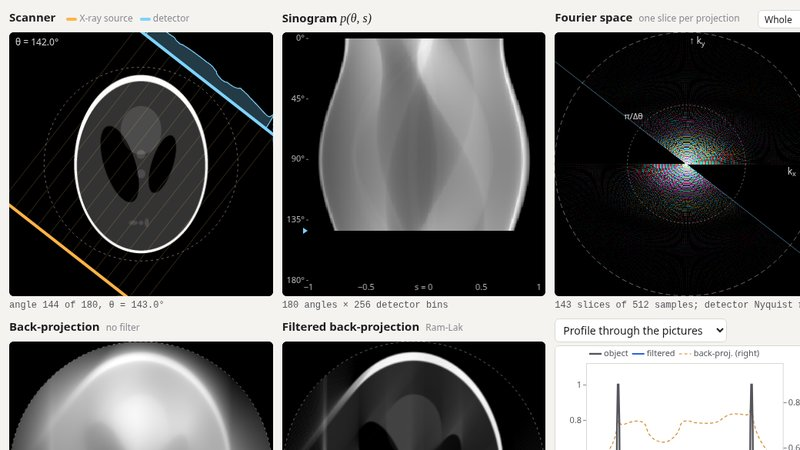
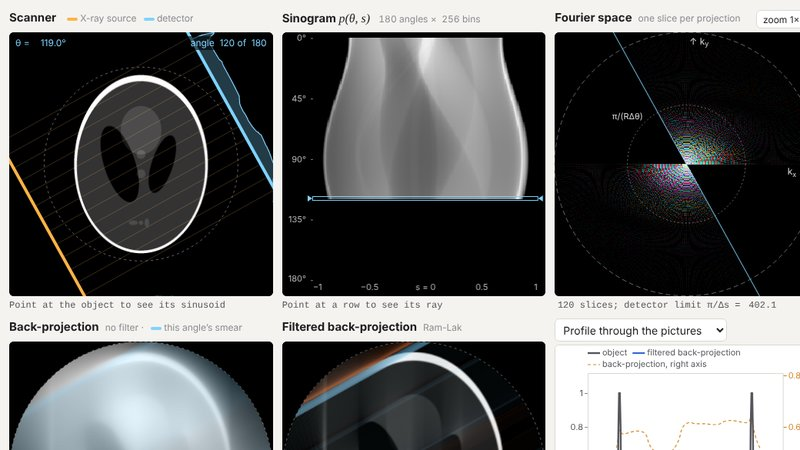
Tomography: thumbnail mid-scan with the colours; Esc lets go; units of k
The landing page's picture is now the opening phantom stepped to angle
120 of 180, so the cyan of the angle just measured shows in the scanner,
the sinogram and Fourier space; stepped, it does not depend on how fast
the machine is.  Esc lets go of a pinned ray or point, and the Fourier
space readout's tooltip gives the units of k (radians per 10 cm) and
says what pointing there does.

Claude-Session: https://claude.ai/code/session_01Uf588EmEoW67UxQKckEGyR

diff --git a/tomography/index.html b/tomography/index.html
@@ -32,7 +32,7 @@
     <figure class="cell" id="cell-k">
       <figcaption class="cell-head"><h2>Fourier space</h2><span class="note" id="k-note"></span><span class="spacer"></span><select id="k-zoom" class="small-select" aria-label="Zoom into Fourier space"></select></figcaption>
       <div class="sq"><canvas id="kspace" tabindex="0" aria-label="Fourier space: each projection's 1D Fourier transform lies on a line through the centre of the object's 2D transform"></canvas></div>
-      <div class="readout mono small" id="k-readout">&nbsp;</div>
+      <div class="readout mono small" id="k-readout" title="Point at Fourier space: kx, ky and |k| in radians per unit length (the unit is the scan circle’s radius, 10 cm), and the wavelength λ = 2π/|k|.  The slice through that place, its row of the sinogram and its projection turn magenta.">&nbsp;</div>
     </figure>
     <figure class="cell" id="cell-bp">
       <figcaption class="cell-head"><h2>Back-projection</h2><span class="note">no filter · <span class="swatch now"></span>this angle’s smear</span></figcaption>
@@ -127,7 +127,7 @@
   row of the sinogram and it turns magenta: the scanner turns to that angle and shows the ray.
   Point at Fourier space and the slice through that place turns magenta, with its row.  Point at
   the object, or at a back-projection, and that point turns yellow, with its sinusoid in the
-  sinogram.  Click to pin a ray or a point.</p>
+  sinogram.  Click to pin a ray or a point; Esc lets go.</p>
 
   <article class="exp" data-setup="sinusoid">
     <h3>1. One point, one sinusoid</h3>

diff --git a/tomography/app.js b/tomography/app.js
@@ -1445,6 +1445,7 @@ document.addEventListener('keydown', (e) => {
   if (e.target.closest('input, select, textarea') || e.ctrlKey || e.metaKey || e.altKey) return;
   if (e.key === ' ') { e.preventDefault(); playButton.click(); }
   else if (e.key === 'ArrowRight') { e.preventDefault(); stepScan(); }
+  else if (e.key === 'Escape') { state.pick = null; if (state.point?.pinned) state.point = null; dirty = true; schedule(); }
 });
 
 // ----------------------------------------------------------------------- the address
